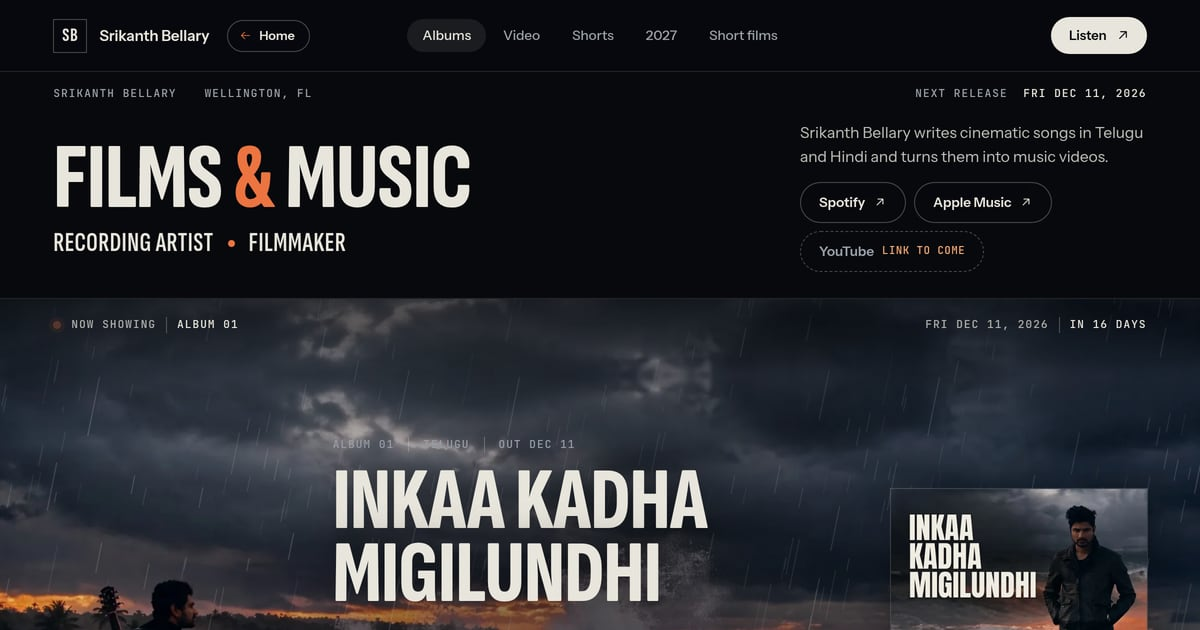
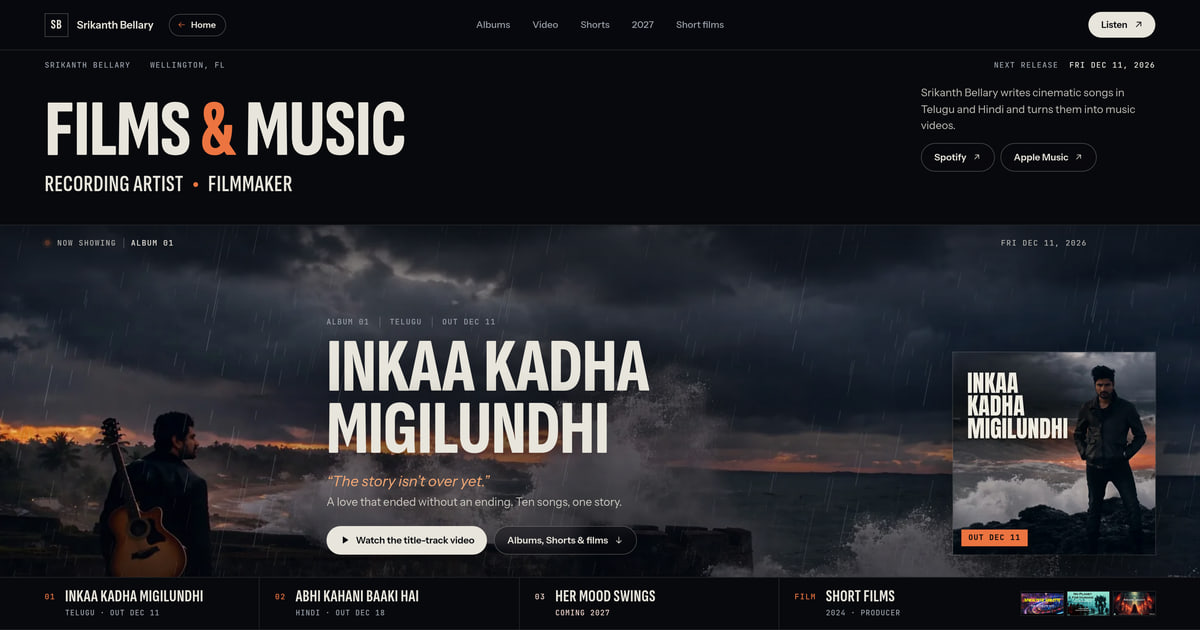
Share images: the whole first screen, nothing that goes stale
The share images for Professional and Personal were crops of the top of
each page, cut through the headline and the cover. The Personal one also
carried the day countdown ("In 16 days"), which is wrong the next day,
and the "link to come" label of the pending YouTube button.

Both are now stills of the page's whole first screen, bar to rail, at
1200 x 630. The countdown, the pending label and the floating Ask button
are left out. The Home share image is unchanged.

diff --git a/README.md b/README.md
@@ -47,6 +47,8 @@ node scripts/prepare-media.mjs <path-to-assets-web>
 
 It writes images at the widths the pages ask for (WebP with a JPEG fallback) and copies the silent loops. It is not part of the site build. Music videos and films are never hosted here: they play from YouTube, and nothing is requested from YouTube until play is pressed.
 
+The share images (`public/og.jpg`, `og-professional.jpg`, `og-personal.jpg`, 1200 × 630) are stills of each page's first screen. They leave out what does not belong in a still: the day countdown, the pending YouTube label and the floating Ask button.
+
 ## Stack
 
 Next.js App Router, static export: three documents (`/`, `/professional/`, `/personal/`) plus `/privacy/`, which belongs to the Professional page. Links between them are ordinary links. Where the browser supports it, a page is prepared while the pointer rests on a link to it and the change of page is a cross-fade (speculation rules and view transitions); nothing navigates until the link is pressed. GitHub Actions builds `out/` and deploys to GitHub Pages on push to `main`. Custom domain is `srikanthbellary.com` (`CNAME` in the repo root and `public/CNAME`).
